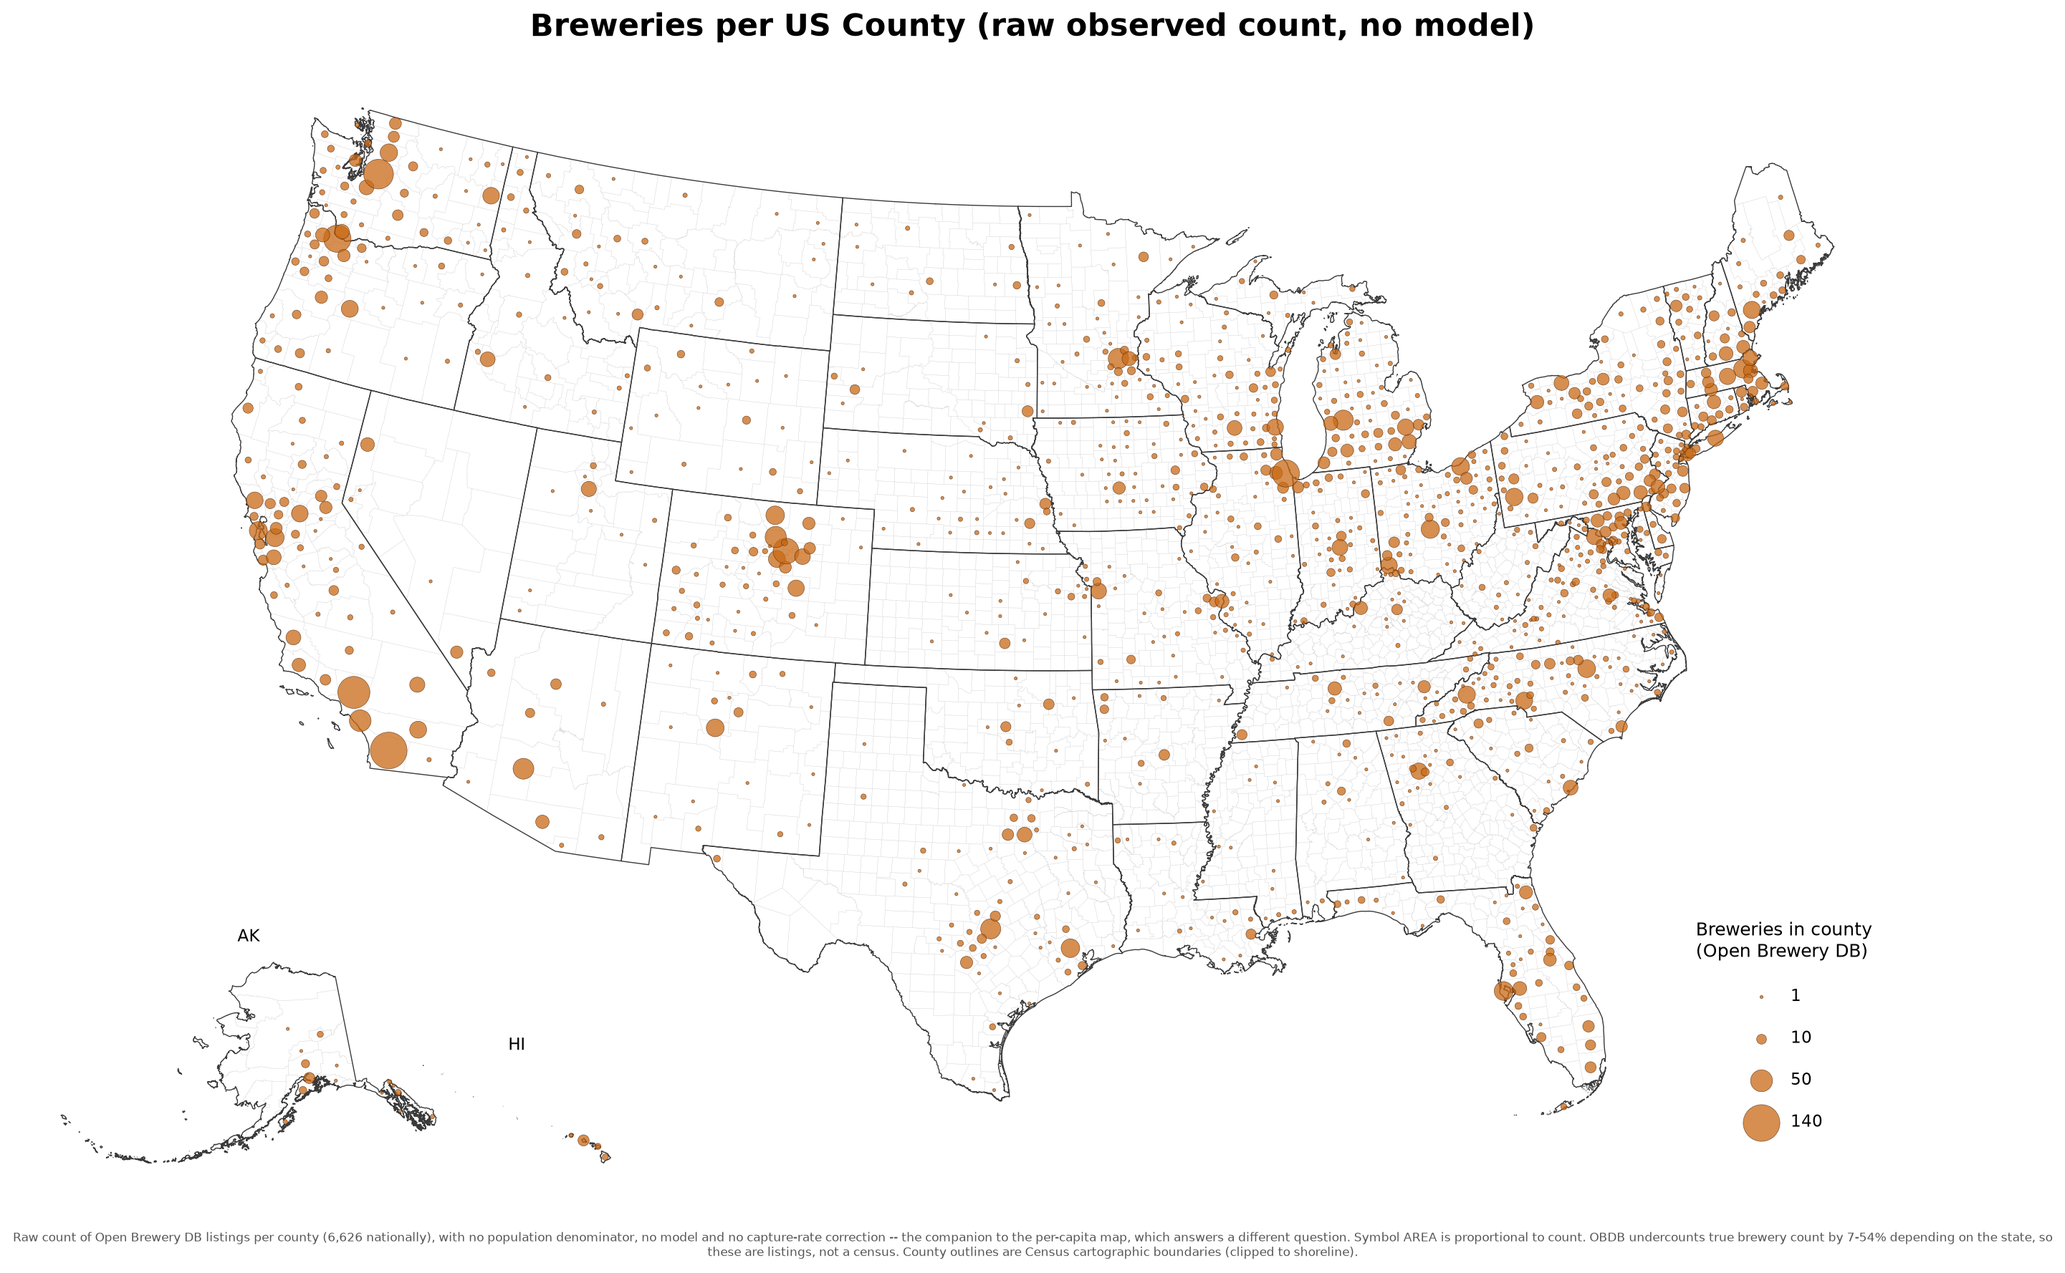
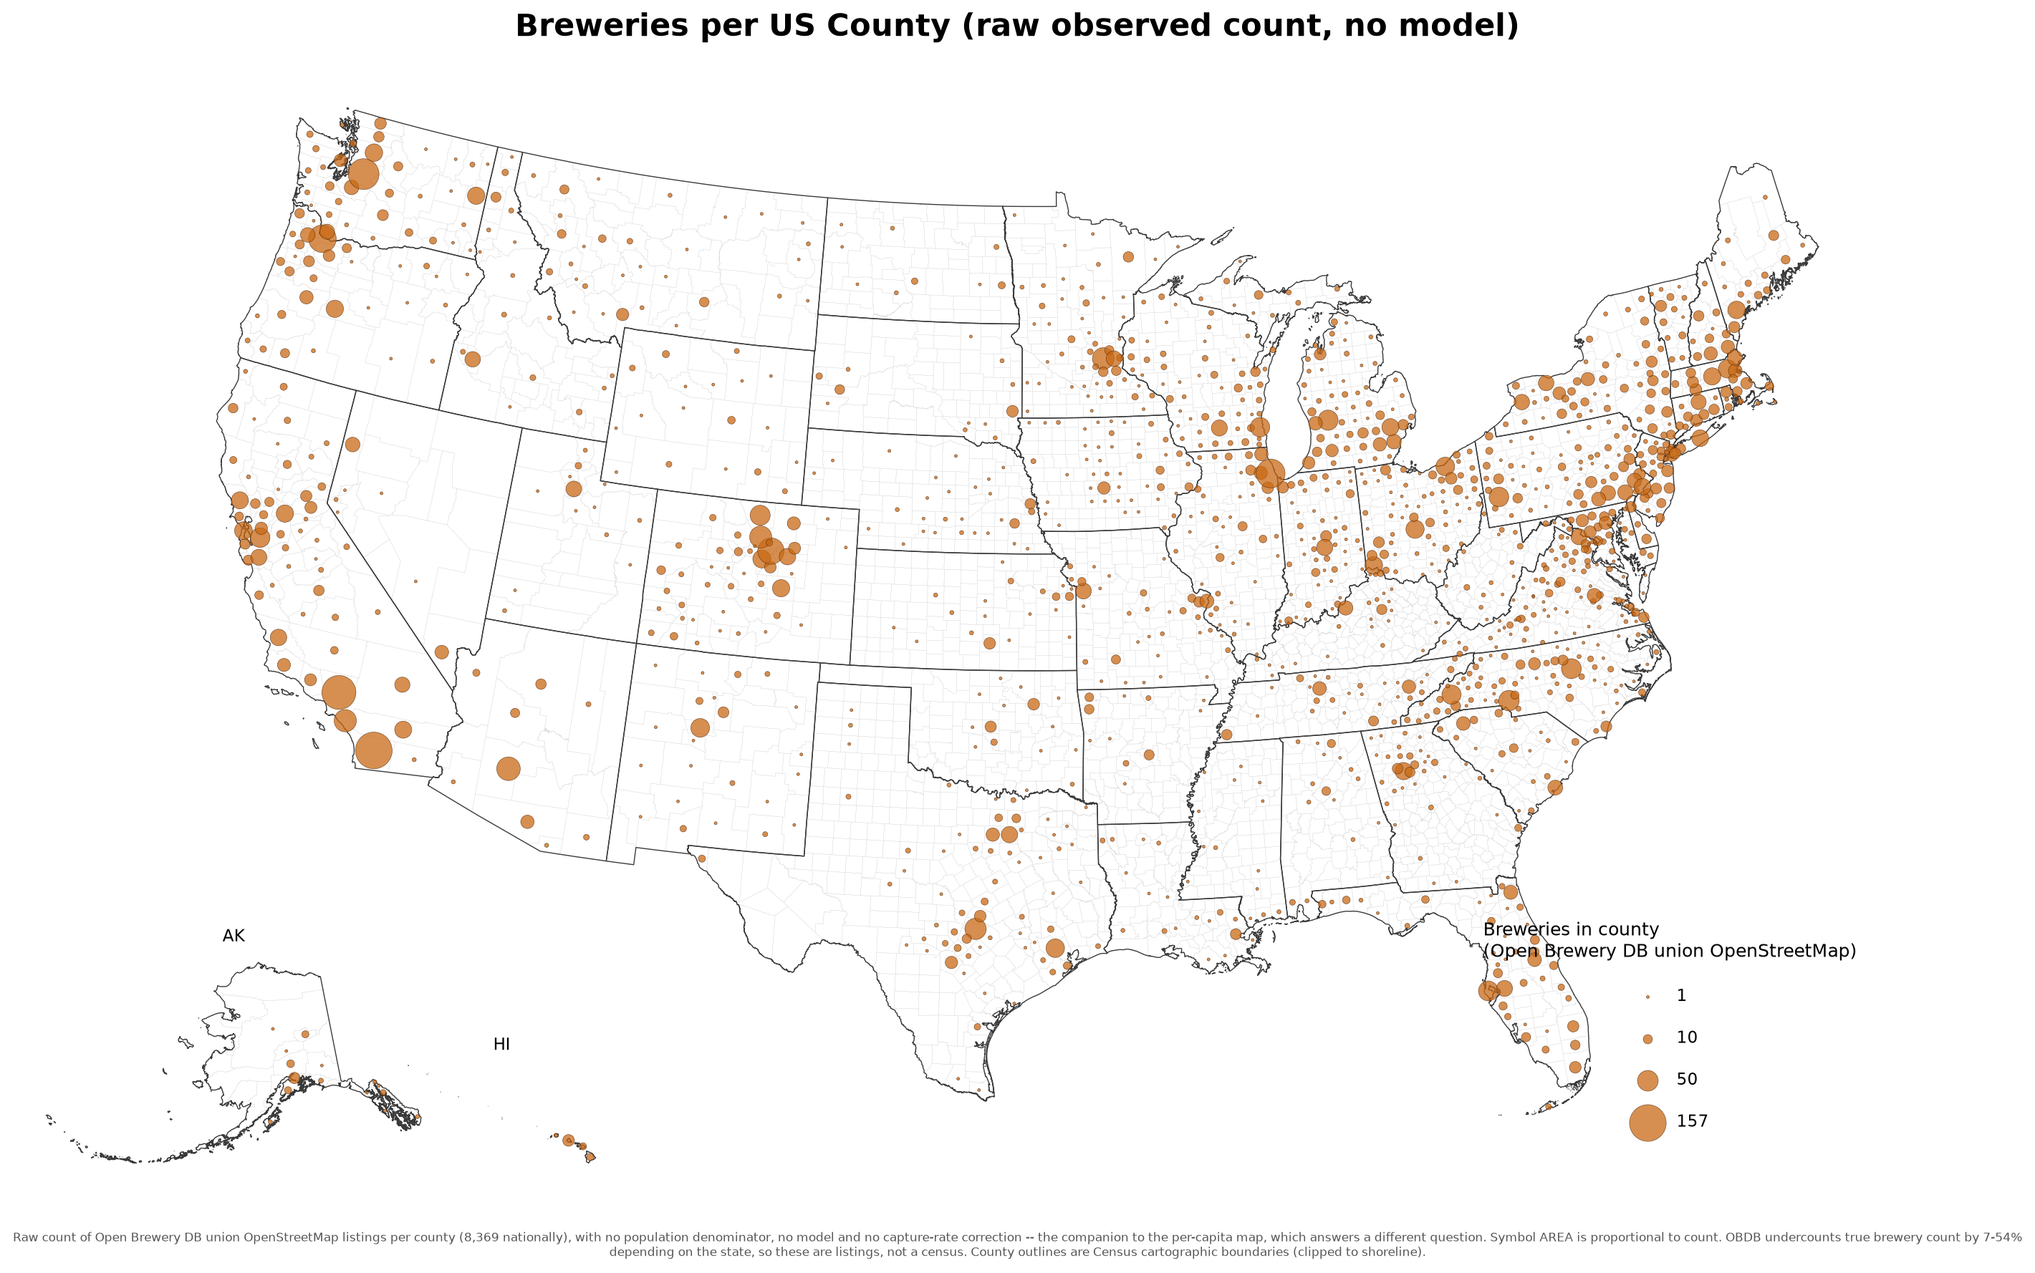
Union OBDB with OSM-only locations: national coverage 69% -> 87%
Measurement error dominates model error here by roughly 35x, and the project
had been spending its effort on the model. Validated against the 18 state
registries with trustworthy ground truth, OBDB-only county counts run a median
34.6% BELOW truth and the fitted model's implied counts run 33.7% below -- the
model is closer in only 7 of 18 states, i.e. worse than a coin flip. No prior
invents a brewery that was never listed.

build_obdb_osm_union.py already produced 2,984 OSM locations matching no OBDB
record; nothing consumed them. A blanket union overshoots where OBDB is already
good (naive: CO 0.919 -> 1.192, OR 0.930 -> 1.112) because OSM maps satellite
taprooms as separate nodes.

src/breweries/osm_union.py filters additions on two rules, both applied only to
additions and never removing anything OBDB lists:
- taproom/outlet names, with a regex deliberately narrow enough not to fire on
  "brewpub", "ale house", or "Growler Bay Brewing Company"
- brand already counted in OBDB in that state (satellite, or a linkage miss)

Fuzzy brand matching was tried at thresholds 95 down to 75 and REJECTED: it
changes eligible additions by 2 records and leaves the overshoot set identical.
That is informative -- the residual overshoot in CO/OR/NJ is not same-brand
double counting, and a 7-15% excess over a licensee list sits inside the range
those registries are already known to be wrong by (MO 1.66, TX 1.22, WY 1.29
before any union).
[…]

diff --git a/src/breweries/osm_union.py b/src/breweries/osm_union.py
@@ -1,0 +1,141 @@
+"""Union OBDB with OSM-only locations, filtered so the result does not trade an
+undercount for an overcount.
+
+WHY THIS MATTERS MORE THAN THE MODEL
+------------------------------------
+Validated against the 18 state registries whose ground truth is actually known
+(the other 5 calibrated states have documented-incomplete registries), the
+OBDB-only county counts are a **median 34.6% BELOW truth**, and the fitted
+model's implied counts are 33.7% below — the model is closer to truth in only
+7 of 18 states, i.e. worse than a coin flip. Covariates, state effects and a
+BYM2 spatial prior move accuracy against external truth by under one
+percentage point, because none of them can invent a brewery that OBDB never
+listed. Measurement error dominates model error by roughly 35x here.
+
+`obdb_osm_union_additions.csv` (built by scripts/build_obdb_osm_union.py, which
+does the name+distance record linkage) holds 2,984 OSM locations that matched
+no OBDB record. Adding them takes national coverage from 69% to 92% of the
+Brewers Association's US brewery count. That is the first-order fix.
+
+WHY A BLANKET UNION IS WRONG
+----------------------------
+Adding all of them overshoots exactly where OBDB is already good. Measured
+capture rate after a naive union: Colorado 0.919 -> 1.192, Oregon 0.930 ->
+1.112, New Jersey 0.748 -> 1.172. A capture rate above 1.0 means the union
+claims more breweries than the state's own licensee registry lists.
+
+The mechanism is visible in the names: OSM maps satellite TAPROOMS as separate
+nodes ("KettleHouse Bonner Taproom", "Myrtle Street Taproom"), and Colorado and
+Oregon overshoot most precisely because they have the least real gap left for
+OSM to fill, so most of what it adds is a second node for a brewery already
+counted. This is the same satellite-taproom question the project already
+documents for Oregon's OLCC data (methods memo Section 6), arriving through a
+different door.
+
+TWO FILTERS, AND WHAT THEY MUST NOT DO
+--------------------------------------
+1. TAPROOM NAMES. Must not fire on "brewpub" or "ale house" (a brewpub IS a
+   brewing site) or on "growler" inside a proper noun ("Growler Bay Brewing
+   Company"). The regex below is deliberately narrow for that reason: it
+   matches outlet words that are not themselves brewing words.
+2. BRAND ALREADY PRESENT IN THE SAME STATE. If an OSM addition's brand already
+   appears in OBDB in that state, the addition is either a satellite of a
+   brewery already counted, or a record-linkage miss on the same brewery.
+   Either way counting it again inflates. This is the stronger filter and does
+   most of the work.
+
+Both are applied to ADDITIONS only; nothing OBDB already lists is ever removed
+here. The acceptance criterion is external: no calibrated state's capture rate
+may exceed 1.0 (except the five whose registries are known incomplete), which
+is a ground-truth test rather than an internal one.
+
+FUZZY BRAND MATCHING WAS TESTED AND REJECTED
+--------------------------------------------
+The exact brand key misses real same-brand pairs -- "Mt. Hood Brewing" vs
+"mounthood", "Pelican Brewing Company - Siletz Bay" vs Pelican's Tillamook
+site, "10 Barrel Brewing East Side Bend" vs its Bend pub -- so rapidfuzz
+scoring against every OBDB brand in the same state was tried at thresholds
+from 95 down to 75. It changes almost nothing: eligible additions 1,743
+(exact) vs 1,741 (fuzzy at 95), and the overshoot set is identical at every
+threshold down to 80.
+
+That is informative rather than disappointing. It means the residual overshoot
+in Colorado (1.10), Oregon (1.07) and New Jersey (1.15) is NOT same-brand
+double counting -- those are locations OSM lists that the state registry does
+not. Given that five other calibrated states have registries demonstrably
+incomplete enough to push their raw capture ratio above 1.0 (Missouri 1.66,
+Texas 1.22, Wyoming 1.29), a 7-15% excess over a licensee list is well inside
+the range those registries are already known to be wrong by. Extra filtering
+would be fitting noise in the reference, not removing error from the union.
+
+So the exact-brand rule stands, and the complexity of fuzzy matching is not
+carried.
+"""
+
+from __future__ import annotations
+
+import re
+
+import pandas as pd
+
+# Outlet words that are NOT brewing words. Deliberately excludes "pub",
+# "brewpub" and "ale house" (brewing sites), and requires "growler" to be
+# followed by an outlet word so "Growler Bay Brewing Company" survives.
+TAPROOM_RE = re.compile(
+    r"tap\s*room\b|taproom\b|tap\s*house\b|taphouse\b|tasting\s*room\b"
+    r"|bottle\s*shop\b|growler\s+(?:shop|station|fill)|beer\s*garden\b|biergarten\b",
+    re.IGNORECASE,
+)
+
+# Suffixes stripped before comparing brands, so "Foo Brewing Company",
+# "Foo Brewery" and "Foo Taproom" collapse to "foo".
+_BRAND_SUFFIX_RE = re.compile(
+    r"(brewingcompanyllc|brewingcompany|brewingco|brewworks|brewhouse|brewpub"
+    r"|brewery|brewing|brewco|beercompany|beerco|beerworks|aleworks|alehouse"
+    r"|taproom|taphouse|tastingroom|llc|inc)+$"
+)
+
+
+def brand_key(names: pd.Series) -> pd.Series:
+    """Normalized brand: lowercase alphanumerics with brewing/outlet suffixes
+    stripped, so a brand and its taproom compare equal."""
+    from breweries.obdb_hygiene import normalize_name
+
+    return normalize_name(names).str.replace(_BRAND_SUFFIX_RE, "", regex=True)
+
+
+def classify_additions(additions: pd.DataFrame, obdb: pd.DataFrame) -> pd.DataFrame:
+    """Flag each OSM-only location with why it would or would not be counted.
+
+    Adds: names_taproom, brand_in_obdb_state, and `union_eligible`
+    (the conjunction: a real brewing site whose brand is not already counted
+    in that state).
+    """
+    from breweries.obdb_hygiene import flag_non_brewery_candidates
+
+    out = flag_non_brewery_candidates(additions)
+    out["names_taproom"] = out["name"].fillna("").str.contains(TAPROOM_RE)
+
+    obdb_brands = set(zip(brand_key(obdb["name"]), obdb["state_abbr"]))
+    keys = list(zip(brand_key(out["name"]), out["state_abbr"]))
+    out["brand_in_obdb_state"] = [k in obdb_brands for k in keys]
+
+    out["union_eligible"] = (
+        out["names_brewing"]
+        & ~out["non_brewery_candidate"]
+        & ~out["names_taproom"]
+        & ~out["brand_in_obdb_state"]
+    )
+    return out
+
+
+def union_counts_by_state(
+    obdb: pd.DataFrame, additions_flagged: pd.DataFrame,
+) -> pd.DataFrame:
+    """Per-state OBDB count, eligible additions, and the union total."""
+    base = obdb["state_abbr"].value_counts().rename("obdb")
+    add = (additions_flagged[additions_flagged["union_eligible"]]["state_abbr"]
+           .value_counts().rename("osm_added"))
+    d = pd.concat([base, add], axis=1).fillna(0).astype(int)
+    d["union"] = d["obdb"] + d["osm_added"]
+    return d.reset_index(names="state_abbr")

diff --git a/scripts/build_union_county_counts.py b/scripts/build_union_county_counts.py
@@ -1,0 +1,132 @@
+"""Build the OBDB-union-OSM county brewery counts, and validate the result
+against the state registries rather than against OBDB itself.
+
+This exists because measurement error dominates model error in this project by
+roughly 35x. Against the 18 state registries whose ground truth is actually
+known, OBDB-only counts run a median 34.6% BELOW truth and the fitted model's
+implied counts run 33.7% below -- the model is closer in only 7 of 18 states.
+No prior fixes a brewery that was never listed.
+
+Outputs
+  data/processed/us_county_union_counts.parquet   per-county OBDB / +OSM / union
+  data/processed/us_union_state_validation.csv    the acceptance test
+  data/processed/obdb_osm_union_classified.csv    every OSM-only record + why
+
+The acceptance test is EXTERNAL: for each calibrated state, capture rate after
+the union must not exceed 1.0, since a state cannot contain more breweries
+than its own licensee registry lists. Five states are excluded from the test
+because their registries are documented as incomplete (raw ratio already above
+1.0 before any union: MO 1.66, TX 1.22, WY 1.29, IL, WV).
+"""
+
+from __future__ import annotations
+
+import warnings
+
+import geopandas as gpd
+import numpy as np
+import pandas as pd
+
+from breweries import osm_union as ou
+from breweries.capture_rate_model import CALIBRATED_STATE_CAPTURE_RATES as CAL
+from breweries.sources import tiger
+
+OBDB_PATH = "data/processed/obdb_us_geocoded_clean.parquet"
+OSM_PATH = "data/processed/obdb_osm_union_additions.csv"
+OUT_COUNTS = "data/processed/us_county_union_counts.parquet"
+OUT_VALIDATION = "data/processed/us_union_state_validation.csv"
+OUT_CLASSIFIED = "data/processed/obdb_osm_union_classified.csv"
+
+# Brewers Association's published US brewery count, for a national sanity check.
+BA_NATIONAL_APPROX = 9_600
+
+
+def main() -> None:
+    obdb = pd.read_parquet(OBDB_PATH)
+    osm = pd.read_csv(OSM_PATH)
+    print(f"OBDB analysis records: {len(obdb):,}    OSM-only locations: {len(osm):,}")
+
+    flagged = ou.classify_additions(osm, obdb)
+    flagged.to_csv(OUT_CLASSIFIED, index=False)
+    print("\nWhy OSM-only records are excluded (a record can trip more than one):")
+    for col, label in [
+        ("non_brewery_candidate", "names a competing beverage category, no brewing token"),
+        ("names_taproom", "names a taproom/outlet rather than a brewing site"),
+        ("brand_in_obdb_state", "brand already counted in OBDB in that state"),
+    ]:
+        print(f"  {label:58s} {int(flagged[col].sum()):5d}")
+    eligible = flagged[flagged["union_eligible"]]
+    print(f"  {'ELIGIBLE for the union':58s} {len(eligible):5d}")
+
+    # --- county assignment for the eligible additions ---------------------
+    counties = tiger.load_counties()[["GEOID", "geometry"]]
+    pts = gpd.GeoDataFrame(
+        eligible, geometry=gpd.points_from_xy(eligible["lon"], eligible["lat"]),
+        crs="EPSG:4326")
+    with warnings.catch_warnings():
+        warnings.simplefilter("ignore")
+        joined = gpd.sjoin(pts, counties, how="left", predicate="within")
+    n_unplaced = int(joined["GEOID"].isna().sum())
+    if n_unplaced:
+        print(f"  NOTE: {n_unplaced} eligible additions fell outside every county polygon "
+              "and are excluded from county counts.")
+
+    add_by_county = joined.dropna(subset=["GEOID"]).groupby("GEOID").size().rename("osm_added")
+    obdb_by_county = (obdb.dropna(subset=["county_geoid"])
+                      .groupby("county_geoid").size().rename("obdb_count"))
+
+    counts = pd.concat([obdb_by_county, add_by_county], axis=1).fillna(0).astype(int)
+    counts["union_count"] = counts["obdb_count"] + counts["osm_added"]
+    counts = counts.reset_index(names="county_geoid")
+    counts.to_parquet(OUT_COUNTS, index=False)
+    print(f"\nWrote {OUT_COUNTS} ({len(counts):,} counties)")
+
+    # --- external acceptance test ----------------------------------------
+    by_state = ou.union_counts_by_state(obdb, flagged)
+    clipped = {s for s, c in CAL.items() if c >= 1.0}
+    rows = []
+    for state, cr in CAL.items():
+        row = by_state[by_state["state_abbr"] == state]
+        if not len(row):
+            continue
+        n_obdb = int(row["obdb"].iloc[0])
+        truth = n_obdb / min(cr, 1.0)
+        rows.append({
+            "state_abbr": state,
+            "registry_trustworthy": state not in clipped,
+            "capture_before": round(min(cr, 1.0), 3),
+            "obdb": n_obdb,
+            "osm_added": int(row["osm_added"].iloc[0]),
+            "union": int(row["union"].iloc[0]),
+            "implied_registry_truth": round(truth),
+            "capture_after": round(int(row["union"].iloc[0]) / truth, 3),
+        })
+    val = pd.DataFrame(rows).sort_values("capture_after")
+    val.to_csv(OUT_VALIDATION, index=False)
+
+    known = val[val["registry_trustworthy"]]
+    over = known[known["capture_after"] > 1.0]
+    print("\n" + "=" * 72)
+    print("ACCEPTANCE TEST: capture rate against state registries, after the union")
+    print("=" * 72)
+    print(val.to_string(index=False))
+    print(f"\n  median capture, trustworthy registries: "
+          f"{known['capture_before'].median():.3f} -> {known['capture_after'].median():.3f}")
+    print(f"  states exceeding 1.0: {len(over)}/{len(known)}"
+          + (f"  ({', '.join(f'{r.state_abbr} {r.capture_after}' for r in over.itertuples())})"
+             if len(over) else ""))
+    print("\n  A capture rate slightly above 1.0 is not necessarily contamination:")
+    print("  five calibrated states have registries incomplete enough to exceed 1.0")
+    print("  before any union at all (MO 1.66, TX 1.22, WY 1.29), so a 7-15% excess")
+    print("  sits inside the range these references are already known to be wrong by.")
+
+    national_before = int(obdb["county_geoid"].notna().sum())
+    national_after = int(counts["union_count"].sum())
+    print(f"\n  national: {national_before:,} -> {national_after:,} "
+          f"({national_before / BA_NATIONAL_APPROX:.0%} -> {national_after / BA_NATIONAL_APPROX:.0%} "
+          "of the Brewers Association US count)")
+    print(f"\nWrote {OUT_VALIDATION}")
+
+
+if __name__ == "__main__":
+    main()

diff --git a/scripts/build_choropleth.py b/scripts/build_choropleth.py
@@ -77,6 +77,8 @@ extend far from its own dot in a dense region -- readers misattributed
 
 from __future__ import annotations
 
+import os
+
 import geopandas as gpd
 import matplotlib.pyplot as plt
 import numpy as np
@@ -462,14 +464,27 @@ def build_count_map(gdf: gpd.GeoDataFrame, out_path: str) -> None:
     outweigh Manhattan on visual weight alone. Symbol area (not radius) is
     proportional to count, which is the encoding people actually decode.
     """
-    gdf = gdf[gdf["obdb_count"].notna()].copy()
+    # Prefer the OBDB-union-OSM count where it exists. Against the 18 state
+    # registries with trustworthy ground truth, OBDB alone runs a median 34.6%
+    # below truth; the union lifts national coverage from 69% to 87% of the
+    # Brewers Association figure and takes the median calibrated-state capture
+    # rate from 0.654 to 0.871. See scripts/build_union_county_counts.py.
+    union_path = "data/processed/us_county_union_counts.parquet"
+    count_col, source_note = "obdb_count", "Open Brewery DB"
+    if os.path.exists(union_path):
+        u = pd.read_parquet(union_path)
+        gdf = gdf.merge(u[["county_geoid", "union_count"]],
+                         left_on="GEOID", right_on="county_geoid", how="left")
+        gdf["union_count"] = gdf["union_count"].fillna(gdf["obdb_count"])
+        count_col, source_note = "union_count", "Open Brewery DB union OpenStreetMap"
+    gdf = gdf[gdf[count_col].notna()].copy()
     gdf_conus = gdf.to_crs(epsg=5070)
     territory_fips = {"02", "15", "72", "78", "60", "66", "69"}
     conus = gdf_conus[~gdf_conus["STATEFP"].isin(territory_fips)]
     alaska = gdf[gdf["STATEFP"] == "02"].to_crs(epsg=3338)
     hawaii = gdf[gdf["STATEFP"] == "15"].to_crs(epsg=3563)
 
-    max_count = float(gdf["obdb_count"].max())
+    max_count = float(gdf[count_col].max())
     # Area-proportional: matplotlib's `s` IS area in points^2, so scale linearly.
     max_area = 420.0
 
@@ -477,10 +492,10 @@ def build_count_map(gdf: gpd.GeoDataFrame, out_path: str) -> None:
         sub.boundary.plot(ax=ax, color="#d8d8d8", linewidth=0.12, zorder=1)
         sub.dissolve(by="STATEFP").boundary.plot(
             ax=ax, color=STATE_EDGE_COLOR, linewidth=STATE_EDGE_WIDTH, zorder=2)
-        pts = sub[sub["obdb_count"] > 0]
+        pts = sub[sub[count_col] > 0]
         if len(pts):
             cent = pts.geometry.representative_point()
-            ax.scatter(cent.x, cent.y, s=pts["obdb_count"] / max_count * max_area,
+            ax.scatter(cent.x, cent.y, s=pts[count_col] / max_count * max_area,
                         facecolor="#c96a15", edgecolor="#4d2004", linewidth=0.25,
                         alpha=0.75, zorder=3)
         ax.set_axis_off()
@@ -506,12 +521,12 @@ def build_count_map(gdf: gpd.GeoDataFrame, out_path: str) -> None:
                                     edgecolor="#4d2004", linewidth=0.25, alpha=0.75))
         labels.append(f"{n:,}")
     ax.legend(handles, labels, loc="lower right", bbox_to_anchor=(0.99, 0.01),
-               title="Breweries in county\n(Open Brewery DB)", labelspacing=1.6,
+               title=f"Breweries in county\n({source_note})", labelspacing=1.6,
                borderpad=1.0, frameon=False, fontsize=9, title_fontsize=10, scatterpoints=1)
 
-    total = int(gdf["obdb_count"].sum())
+    total = int(gdf[count_col].sum())
     fig.text(0.5, 0.01,
-              f"Raw count of Open Brewery DB listings per county ({total:,} nationally), with no "
+              f"Raw count of {source_note} listings per county ({total:,} nationally), with no "
               "population denominator, no model and no capture-rate correction -- the companion to "
               "the per-capita map, which answers a different question. Symbol AREA is proportional "
               "to count. OBDB undercounts true brewery count by 7-54% depending on the state, so "
